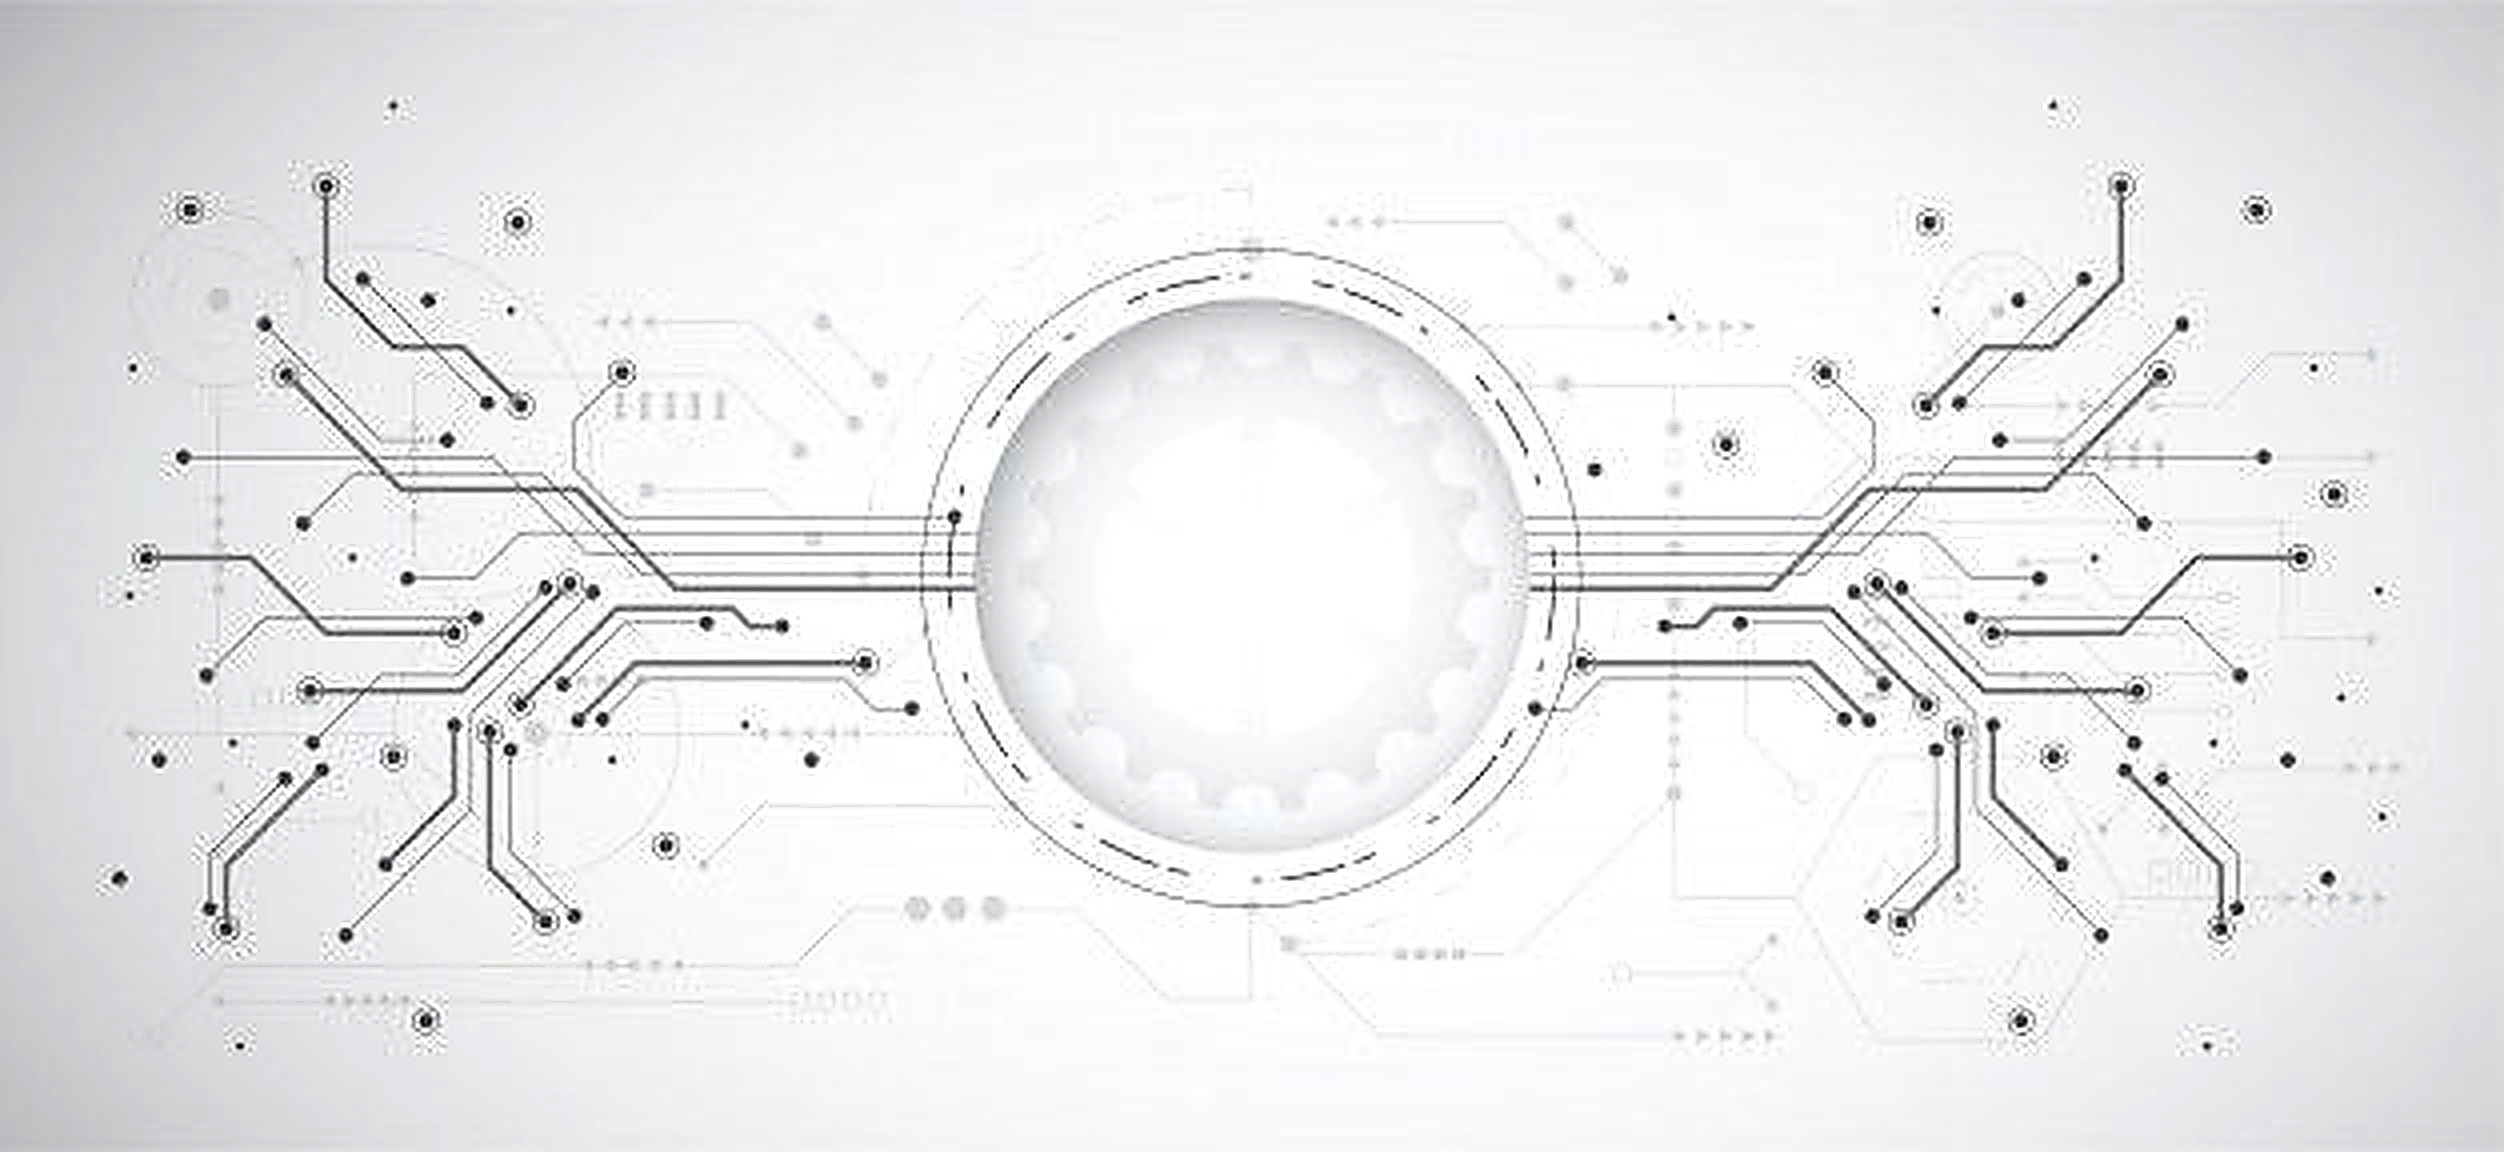
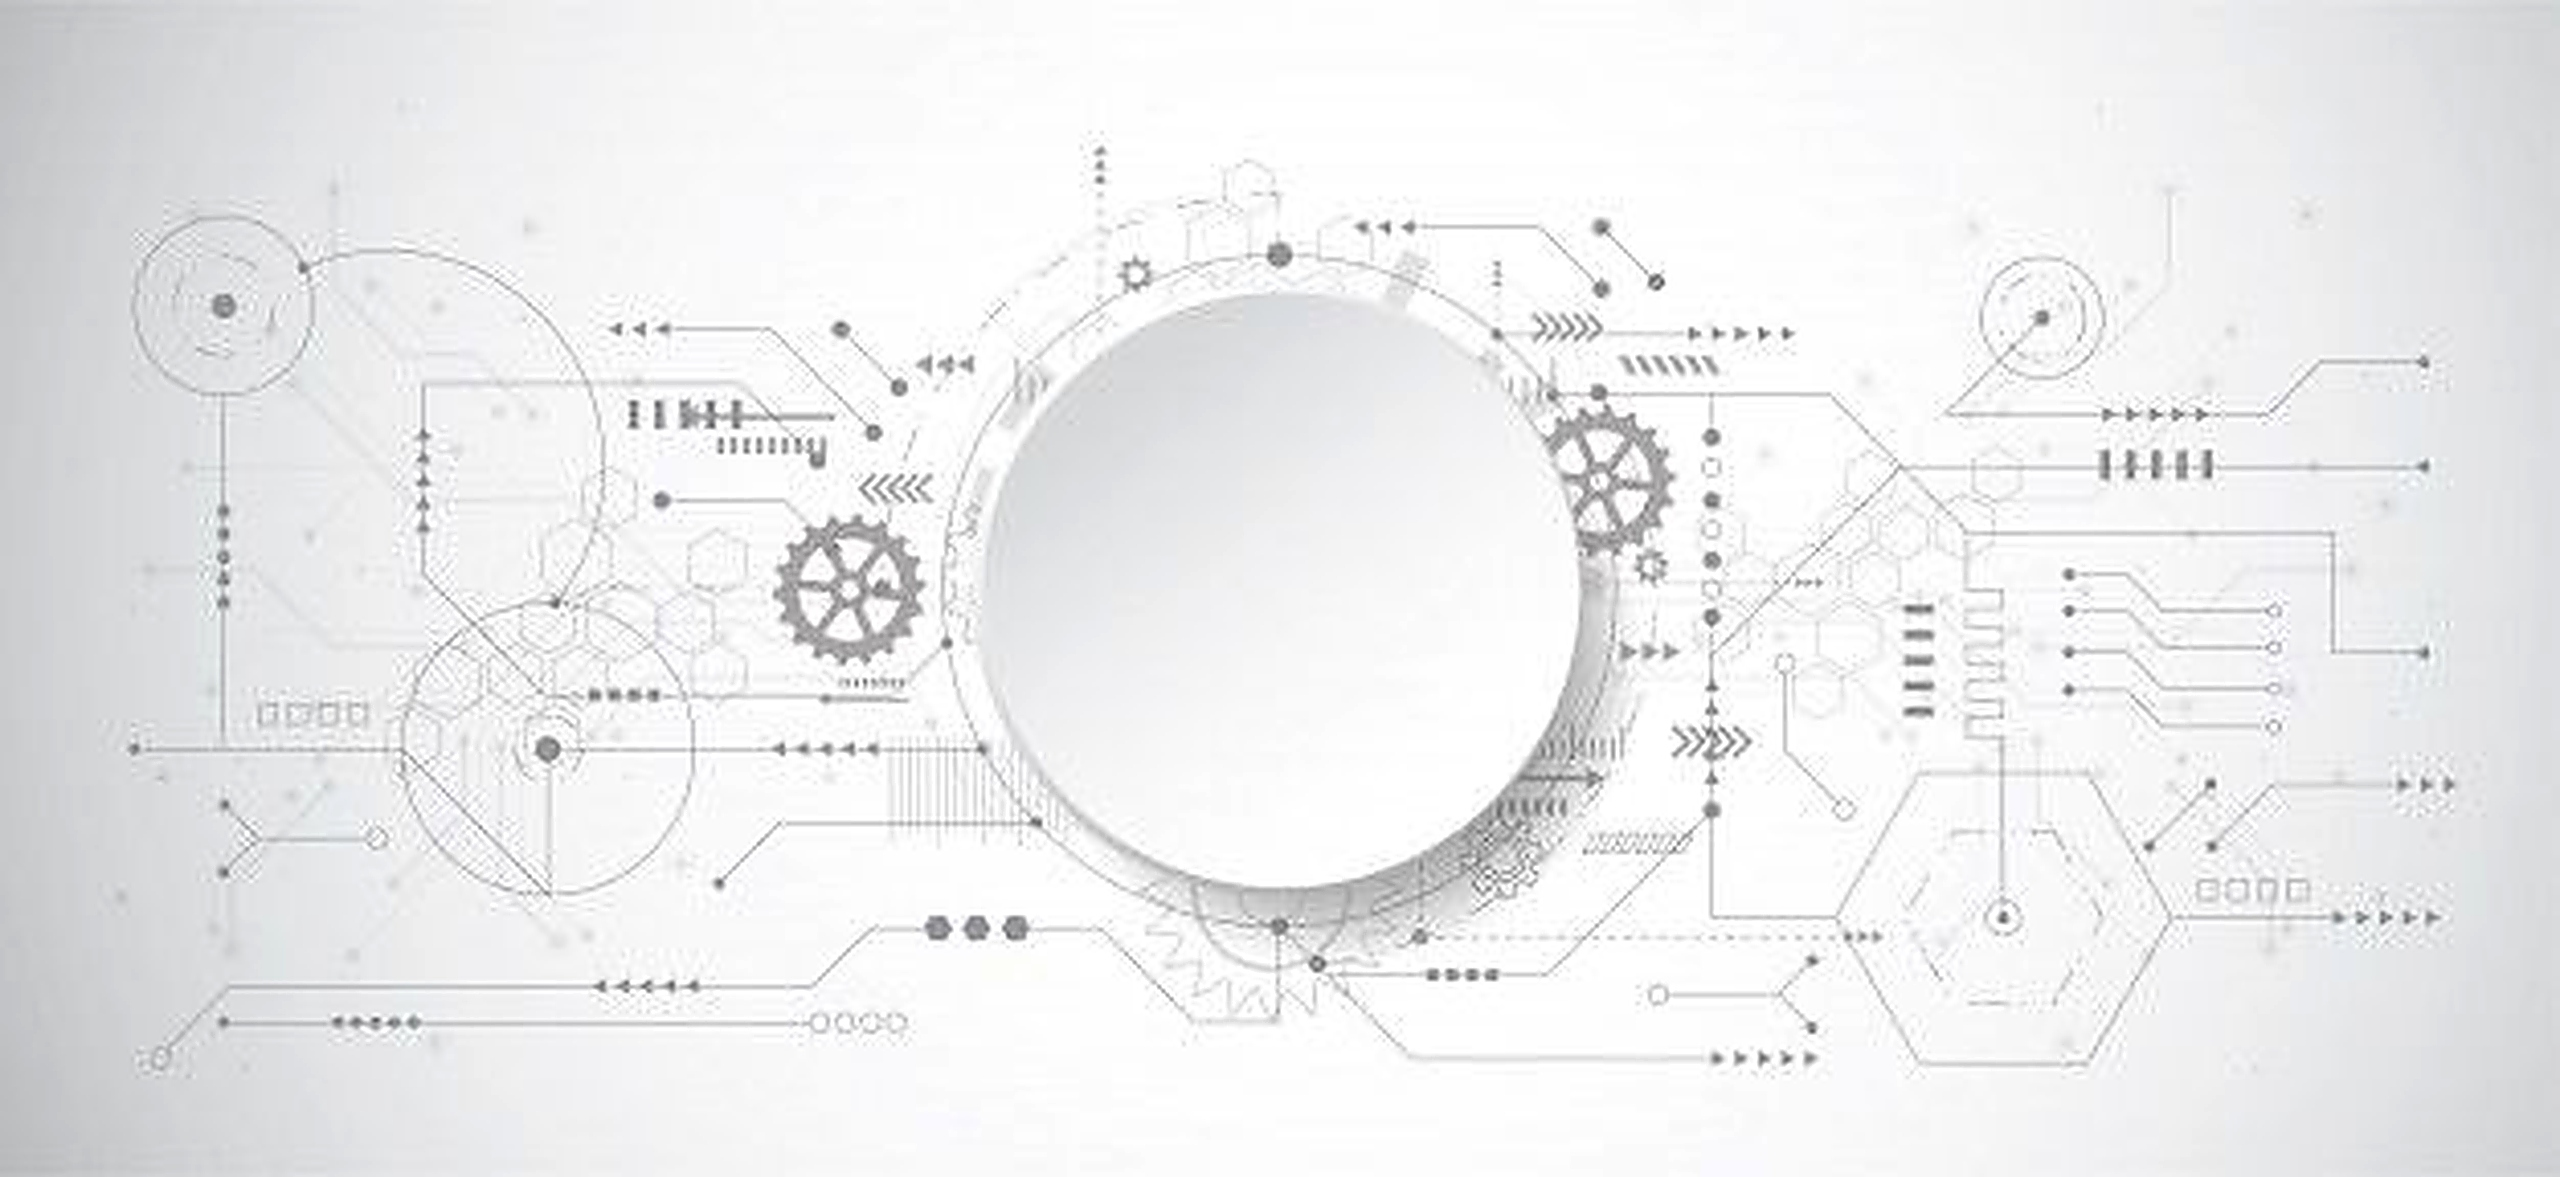
Update homepage background image with high-definition enhancement

diff --git a/src/App.tsx b/src/App.tsx
@@ -44,7 +44,7 @@ export default function App() {
           text: "From bespoke web and mobile apps to scalable cloud engineering, we build modern technology solutions that drive business growth.",
           cta: "Get In Touch",
           image: {
-            src: "/hero.jpg",
+            src: "/hero.jpg?v=2",
             alt: "Futuristic high-definition circuit board schematic",
             tone: "#e5e7eb",
             focus: "50% 50%",
